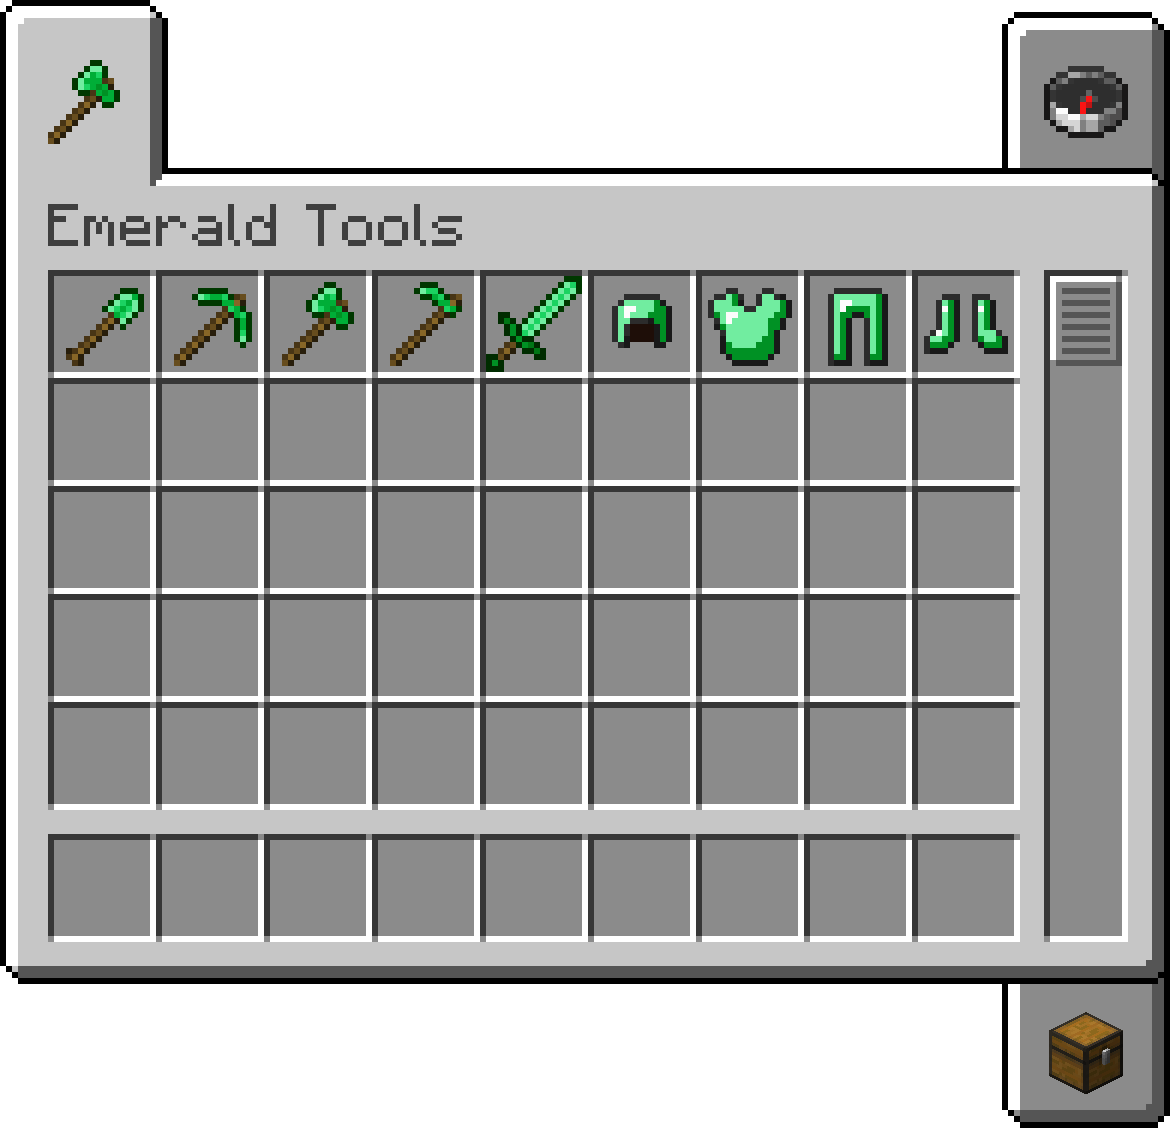
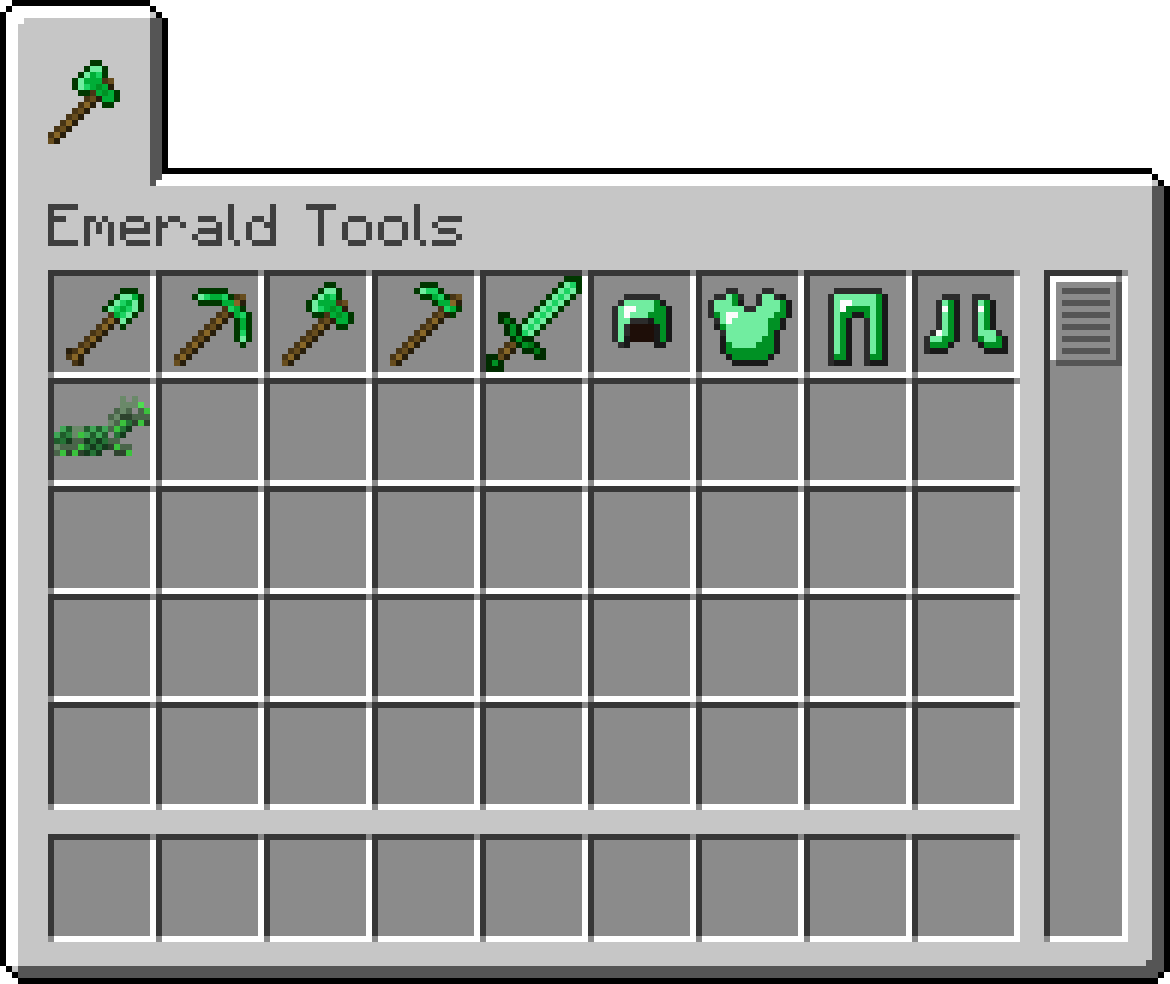
Updated README

diff --git a/README.md b/README.md
@@ -17,10 +17,11 @@ This mod adds in the following tools and armour into Minecraft:
 * Emerald Axe
 * Emerald Hoe
 * Emerald Sword
-* Elerald Helmet
+* Emerald Helmet
 * Emerald Chestplate
 * Emerald Leggings
 * Emerald Boots
+* Emerald Horse Armour
 
 ![Emerald tools tab](images/inventory.png)
 
@@ -28,7 +29,7 @@ Emerald tools and armour can be crafted just like other items in-game, but inste
 
 ![Crafting emerald axe](images/crafting_axe.png)
 
-The emerald tier (both tool and armour) sits between the iron and diamond tiers. Emerald tools have the same harvest level as diamond (level 3) and have a total durability of 779 uses.
+The emerald tier (both tool and armour) sits between the iron and diamond tiers. Emerald tools have the same harvest level as diamond (level 3) and have a total durability of 779 uses. Emerald horse armour provides 9 defense points.
 
 The emerald tier sits below the diamond tier because the villager career trading level, Expert (emerald badge), is below Master (diamond badge). Another reason is because they are easier to aquire through trading.
 
